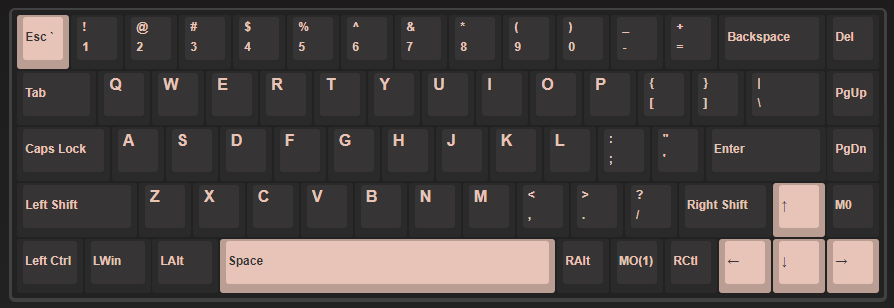
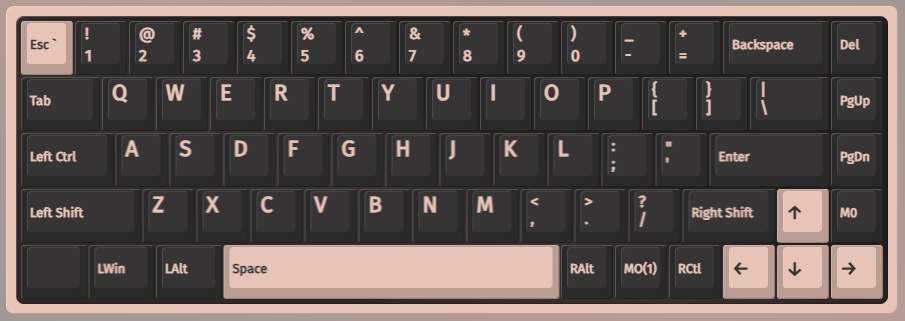
Update nk65 layout

diff --git a/README.md b/README.md
@@ -23,12 +23,14 @@
 
 ### Layer 0
 
+- Caps Lock -> Left Ctrl
 - Macro 0: Ctrl + Shift + M (Mute)
 
 ![nk65 - Layer 0](images/nk65_layer0.png)
 
 ### Layer 1
 
+- Caps Lock
 - Arrows on WASD
 - Home/End on </>
 - Mouse movement on arrows
